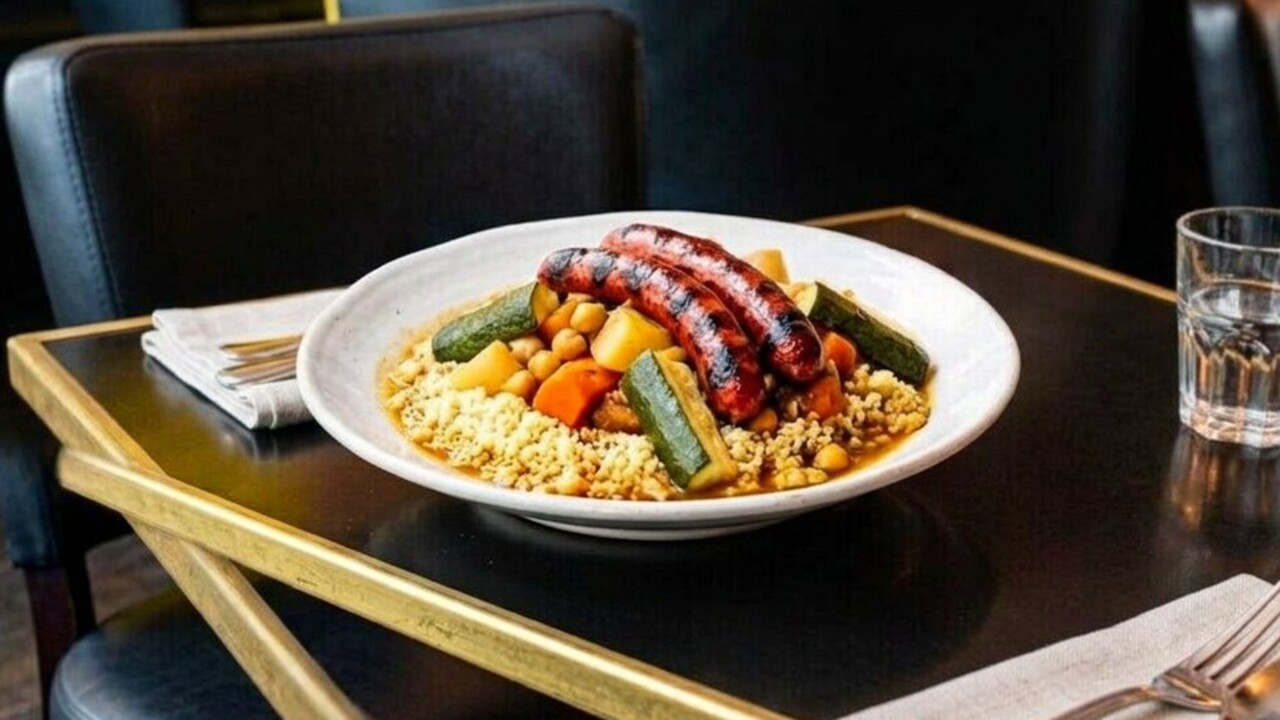
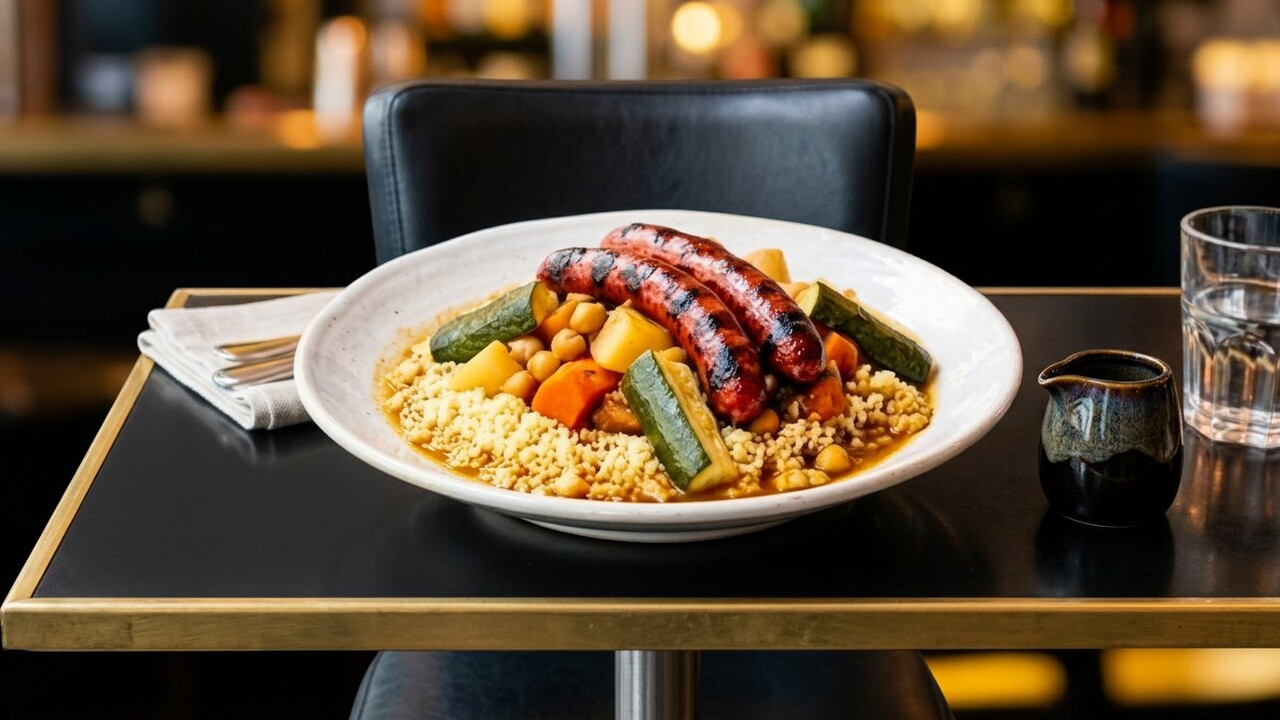
Couscous : supprimer les chevauchements de tables sur les six photos

diff --git a/index.html b/index.html
@@ -11354,7 +11354,7 @@ html:not(.carte-doc) .lightbox--food-wide .lightbox__img {
     </div>
     <div class="container">
       <section id="entrees" class="menu-section active"><div class="tab-flow"><article class="panel"><div class="panel__head"><h4 class="panel__title">Entrées</h4></div><div class="food-card-grid food-card-grid--wide"><article class="food-card menu-card-grid__item" data-photo="assets/plats/assiette-de-foie-gras-du-sud-ouest.jpg"><div class="food-card__head"><div class="food-card__lead"><h5>Assiette de foie gras du Sud-Ouest</h5><span class="food-card__note">Pain toasté, confiture d’abricots</span></div><strong>17,90</strong></div></article><article class="food-card menu-card-grid__item" data-photo="assets/plats/oeuf-dur-mayonnaise.jpg"><div class="food-card__head"><div class="food-card__lead"><h5>Œuf dur mayonnaise</h5></div><strong>6,20</strong></div></article><article class="food-card menu-card-grid__item" data-photo="assets/plats/6-escargots-au-roquefort.jpg"><div class="food-card__head"><div class="food-card__lead"><h5>6 Escargots au Roquefort</h5></div><strong>7,90</strong></div></article><article class="food-card menu-card-grid__item" data-photo="assets/plats/assiette-de-saumon-fume.jpg"><div class="food-card__head"><div class="food-card__lead"><h5>Assiette de saumon fumé</h5></div><strong>7,50</strong></div></article><article class="food-card menu-card-grid__item" data-photo="assets/plats/tartare-d-avocat-et-crevettes.jpg"><div class="food-card__head"><div class="food-card__lead"><h5>Tartare d’avocat et crevettes</h5></div><strong>7,90</strong></div></article><article class="food-card menu-card-grid__item" data-photo="assets/plats/oeuf-cocotte-du-moment.jpg"><div class="food-card__head"><div class="food-card__lead"><h5>Œuf cocotte du moment</h5></div><strong>7,90</strong></div></article></div></article><article class="panel"><div class="panel__head"><h4 class="panel__title">Planches &amp; croques</h4></div><div class="food-card-grid food-card-grid--wide"><article class="food-card menu-card-grid__item" data-photo="assets/plats/la-cochonnaille.jpg"><div class="food-card__head"><div class="food-card__lead"><h5>La Cochonnaille</h5></div><strong>17,50</strong></div></article><article class="food-card menu-card-grid__item" data-photo="assets/plats/la-fromagere.jpg"><div class="food-card__head"><div class="food-card__lead"><h5>La Fromagère</h5></div><strong>15,90</strong></div></article><article class="food-card menu-card-grid__item" data-photo="assets/plats/la-paysanne.jpg"><div class="food-card__head"><div class="food-card__lead"><h5>La Paysanne</h5><span class="food-card__note">Cochonnaille et fromagère</span></div><strong>19,90</strong></div></article><article class="food-card menu-card-grid__item" data-photo="assets/plats/croque-monsieur.jpg"><div class="food-card__head"><div class="food-card__lead"><h5>Croque-Monsieur</h5><span class="food-card__note">Sandwich grillé jambon-fromage, sauce béchamel</span><span class="food-card__note">Frites et salade</span></div><strong>11,70</strong></div></article><article class="food-card menu-card-grid__item" data-photo="assets/plats/croque-madame.jpg"><div class="food-card__head"><div class="food-card__lead"><h5>Croque-Madame</h5><span class="food-card__note">Sandwich grillé jambon-fromage, sauce béchamel, œuf au plat</span><span class="food-card__note">Frites et salade</span></div><strong>12,70</strong></div></article></div></article><article class="panel"><div class="panel__head"><h4 class="panel__title">Omelettes</h4></div><div class="food-card-grid food-card-grid--wide"><article class="food-card menu-card-grid__item" data-photo="assets/plats/oeufs-au-plat.jpg"><div class="food-card__head"><div class="food-card__lead"><h5>Œufs au plat</h5><span class="food-card__note">Salade</span></div><strong>9,90</strong></div></article><article class="food-card menu-card-grid__item" data-photo="assets/plats/omelette-nature.jpg"><div class="food-card__head"><div class="food-card__lead"><h5>Omelette nature</h5><span class="food-card__note">Salade</span></div><strong>9,90</strong></div></article><article class="food-card menu-card-grid__item" data-photo="assets/plats/omelette-au-fromage.jpg"><div class="food-card__head"><div class="food-card__lead"><h5>Omelette au fromage</h5><span class="food-card__note">Salade</span></div><strong>10,90</strong></div></article><article class="food-card menu-card-grid__item" data-photo="assets/plats/omelette-au-jambon.jpg"><div class="food-card__head"><div class="food-card__lead"><h5>Omelette au jambon</h5><span class="food-card__note">Salade</span></div><strong>10,90</strong></div></article><article class="food-card menu-card-grid__item" data-photo="assets/plats/omelette-mixte.jpg"><div class="food-card__head"><div class="food-card__lead"><h5>Omelette mixte</h5><span class="food-card__note">Salade</span></div><strong>13,90</strong></div></article><article class="food-card menu-card-grid__item" data-photo="assets/plats/omelette-aux-champignons.jpg"><div class="food-card__head"><div class="food-card__lead"><h5>Omelette aux champignons</h5><span class="food-card__note">Salade</span></div><strong>13,70</strong></div></article></div></article></div></section>
-<section id="plats" class="menu-section"><div class="tab-flow"><article class="panel"><div class="panel__head"><h4 class="panel__title">Plats</h4></div><div class="food-card-grid food-card-grid--wide"><article class="food-card menu-card-grid__item" data-photo="assets/plats/entrecote-190-g.jpg?v=20261024-originaux-restaures"><div class="food-card__head"><div class="food-card__lead"><h5>Entrecôte 190 g</h5><p class="food-card__note">Fleur de sel, sauce au choix</p></div><strong>19,90</strong></div></article><article class="food-card menu-card-grid__item" data-photo="assets/plats/bavette-d-aloyau.jpg?v=20261024-originaux-restaures"><div class="food-card__head"><div class="food-card__lead"><h5>Bavette d’aloyau</h5><p class="food-card__note">Sauce au choix</p></div><strong>17,50</strong></div></article><article class="food-card menu-card-grid__item" data-photo="assets/plats/escalope-de-veau.jpg?v=20261024-originaux-restaures"><div class="food-card__head"><div class="food-card__lead"><h5>Escalope de veau</h5><p class="food-card__note">Sauce champignons, pâtes</p></div><strong>19,90</strong></div></article><article class="food-card menu-card-grid__item" data-photo="assets/plats/cuisse-de-canard-confite.jpg?v=20261024-originaux-restaures"><div class="food-card__head"><div class="food-card__lead"><h5>Cuisse de canard confite</h5></div><strong>19,70</strong></div></article><article class="food-card menu-card-grid__item" data-photo="assets/plats/poisson.jpg?v=20261024-originaux-restaures"><div class="food-card__head"><div class="food-card__lead"><h5>Poisson</h5><p class="food-card__note">Selon l'arrivage</p></div><strong>17,90</strong></div></article><article class="food-card menu-card-grid__item" data-photo="assets/plats/tartare-de-boeuf.jpg?v=20261024-originaux-restaures"><div class="food-card__head"><div class="food-card__lead"><h5>Tartare de bœuf</h5></div><strong>17,80</strong></div></article><article class="food-card menu-card-grid__item" data-photo="assets/plats/cuisse-de-poulet-rotie.jpg?v=20261024-originaux-restaures"><div class="food-card__head"><div class="food-card__lead"><h5>Cuisse de poulet rôtie</h5><p class="food-card__note">Riz basmati</p></div><strong>15,20</strong></div></article></div></article><article class="panel"><div class="panel__head"><h4 class="panel__title">Burgers</h4></div><div class="food-card-grid"><article class="food-card menu-card-grid__item" data-photo="assets/plats/burger-la-colline.jpg?v=20261024-originaux-restaures"><div class="food-card__head"><div class="food-card__lead"><h5>Burger La Colline</h5><p class="food-card__note">Pain brioché, cheddar, steak haché, bacon, oignons caramélisés, salade, tomate, sauce burger.</p></div><strong>17,90</strong></div></article><article class="food-card menu-card-grid__item" data-photo="assets/plats/le-royal-fishburger.jpg?v=20261024-originaux-restaures"><div class="food-card__head"><div class="food-card__lead"><h5>Le Royal Fishburger</h5><p class="food-card__note">Pain brioché, cheddar, poisson pané, légumes grillés, salade, tomate, sauce burger.</p></div><strong>17,70</strong></div></article><article class="food-card menu-card-grid__item" data-photo="assets/plats/burger-chicken-croustillant.jpg?v=20261024-originaux-restaures"><div class="food-card__head"><div class="food-card__lead"><h5>Burger Chicken Croustillant</h5><p class="food-card__note">Pain brioché, cheddar, escalope de poulet pané croustillant, oignons caramélisés, salade, tomate, sauce burger.</p></div><strong>17,90</strong></div></article><article class="food-card menu-card-grid__item" data-photo="assets/plats/burger-vegetarien.jpg?v=20261024-originaux-restaures"><div class="food-card__head"><div class="food-card__lead"><h5>Burger Végétarien</h5><p class="food-card__note">Pain brioché, cheddar, steak végétarien, légumes grillés, salade, tomate, sauce burger.</p></div><strong>17,70</strong></div></article></div></article><article class="panel"><div class="panel__head"><h4 class="panel__title">Salades</h4></div><div class="food-card-grid"><article class="food-card menu-card-grid__item" data-photo="assets/plats/la-colline.jpg?v=20261024-originaux-restaures"><div class="food-card__head"><div class="food-card__lead"><h5>La Colline</h5><p class="food-card__note">Salade verte, tomate, escalope de poulet pané, œuf mimosa, croûton, toast de chèvre.</p></div><strong>16,90</strong></div></article><article class="food-card menu-card-grid__item" data-photo="assets/plats/chevre-chaud.jpg?v=20261024-originaux-restaures"><div class="food-card__head"><div class="food-card__lead"><h5>Chèvre Chaud</h5><p class="food-card__note">Salade verte, tomate, jambon sec, toast de cabécou, noix, miel.</p></div><strong>16,50</strong></div></article><article class="food-card menu-card-grid__item" data-photo="assets/plats/vegetarienne.jpg?v=20261024-originaux-restaures"><div class="food-card__head"><div class="food-card__lead"><h5>Végétarienne</h5><p class="food-card__note">Salade verte, tomate, concombre, haricots verts, légumes grillés, avocat.</p></div><strong>12,60</strong></div></article><article class="food-card menu-card-grid__item" data-photo="assets/plats/nordique.jpg?v=20261024-originaux-restaures"><div class="food-card__head"><div class="food-card__lead"><h5>Nordique</h5><p class="food-card__note">Salade verte, saumon fumé, crevettes, avocat, concombre, tomate, feta, croûtons.</p></div><strong>17,20</strong></div></article></div></article><article class="panel"><div class="panel__head"><h4 class="panel__title">Pâtes</h4></div><div class="food-card-grid"><article class="food-card menu-card-grid__item" data-photo="assets/plats/tagliatelles-a-la-carbonara.jpg?v=20261024-originaux-restaures"><div class="food-card__head"><div class="food-card__lead"><h5>Tagliatelles à la carbonara</h5></div><strong>15,90</strong></div></article><article class="food-card menu-card-grid__item" data-photo="assets/plats/tagliatelles-au-saumon.jpg?v=20261024-saumon-morceaux"><div class="food-card__head"><div class="food-card__lead"><h5>Tagliatelles au saumon</h5></div><strong>16,20</strong></div></article><article class="food-card menu-card-grid__item" data-photo="assets/plats/penne-au-poulet-et-champignons.jpg?v=20261024-originaux-restaures"><div class="food-card__head"><div class="food-card__lead"><h5>Penne au poulet et champignons</h5></div><strong>16,50</strong></div></article></div></article><article class="panel panel--couscous"><div class="panel__head"><h4 class="panel__title">Couscous</h4><p class="panel__subtitle">À déguster chaque vendredi et samedi (midi et soir).</p></div><div class="food-card-grid"><article class="food-card menu-card-grid__item" data-photo="assets/plats/couscous-poulet.jpg?v=20261024-couscous-table-compacte"><div class="food-card__head"><div class="food-card__lead"><h5>Poulet</h5><p class="food-card__note">Semoule fine, légumes mijotés et bouillon maison.</p></div><strong>15,60</strong></div></article><article class="food-card menu-card-grid__item" data-photo="assets/plats/couscous-merguez.jpg?v=20261024-couscous-table-compacte"><div class="food-card__head"><div class="food-card__lead"><h5>Merguez</h5><p class="food-card__note">Semoule fine, légumes mijotés et bouillon maison.</p></div><strong>15,60</strong></div></article><article class="food-card menu-card-grid__item" data-photo="assets/plats/couscous-agneau.jpg?v=20261024-couscous-table-compacte"><div class="food-card__head"><div class="food-card__lead"><h5>Brochette d’agneau</h5><p class="food-card__note">Semoule fine, légumes mijotés et bouillon maison.</p></div><strong>16,50</strong></div></article><article class="food-card menu-card-grid__item" data-photo="assets/plats/couscous-boeuf.jpg?v=20261024-couscous-table-compacte"><div class="food-card__head"><div class="food-card__lead"><h5>Bœuf</h5><p class="food-card__note">Semoule fine, légumes mijotés et bouillon maison.</p></div><strong>16,50</strong></div></article><article class="food-card menu-card-grid__item" data-photo="assets/plats/couscous-vegetarien.jpg?v=20261024-couscous-table-compacte"><div class="food-card__head"><div class="food-card__lead"><h5>Végétarien</h5><p class="food-card__note">Semoule fine, légumes mijotés et bouillon maison.</p></div><strong>13,50</strong></div></article><article class="food-card menu-card-grid__item" data-photo="assets/plats/couscous-trois-viandes.jpg?v=20261024-couscous-table-compacte"><div class="food-card__head"><div class="food-card__lead"><h5>La Colline Royale</h5><p class="food-card__note">Poulet, agneau et bœuf. Semoule fine, légumes mijotés et bouillon maison.</p></div><strong>22,90</strong></div></article></div></article><article class="panel panel--accent"><div class="accent-band"><img class="accent-band__motif" src="assets/menus/motif-80a.png" alt="" aria-hidden="true" loading="lazy" width="80" height="80"><div class="accent-band__title"><strong>Assiette de frites</strong><span>4,90</span></div><p>Accompagnement : frites, haricots verts, pâtes</p><p class="accent-band__sauce">Sauce au choix : poivre · champignons · roquefort — supplément sauce 2,00</p></div></article></div></section>
+<section id="plats" class="menu-section"><div class="tab-flow"><article class="panel"><div class="panel__head"><h4 class="panel__title">Plats</h4></div><div class="food-card-grid food-card-grid--wide"><article class="food-card menu-card-grid__item" data-photo="assets/plats/entrecote-190-g.jpg?v=20261024-originaux-restaures"><div class="food-card__head"><div class="food-card__lead"><h5>Entrecôte 190 g</h5><p class="food-card__note">Fleur de sel, sauce au choix</p></div><strong>19,90</strong></div></article><article class="food-card menu-card-grid__item" data-photo="assets/plats/bavette-d-aloyau.jpg?v=20261024-originaux-restaures"><div class="food-card__head"><div class="food-card__lead"><h5>Bavette d’aloyau</h5><p class="food-card__note">Sauce au choix</p></div><strong>17,50</strong></div></article><article class="food-card menu-card-grid__item" data-photo="assets/plats/escalope-de-veau.jpg?v=20261024-originaux-restaures"><div class="food-card__head"><div class="food-card__lead"><h5>Escalope de veau</h5><p class="food-card__note">Sauce champignons, pâtes</p></div><strong>19,90</strong></div></article><article class="food-card menu-card-grid__item" data-photo="assets/plats/cuisse-de-canard-confite.jpg?v=20261024-originaux-restaures"><div class="food-card__head"><div class="food-card__lead"><h5>Cuisse de canard confite</h5></div><strong>19,70</strong></div></article><article class="food-card menu-card-grid__item" data-photo="assets/plats/poisson.jpg?v=20261024-originaux-restaures"><div class="food-card__head"><div class="food-card__lead"><h5>Poisson</h5><p class="food-card__note">Selon l'arrivage</p></div><strong>17,90</strong></div></article><article class="food-card menu-card-grid__item" data-photo="assets/plats/tartare-de-boeuf.jpg?v=20261024-originaux-restaures"><div class="food-card__head"><div class="food-card__lead"><h5>Tartare de bœuf</h5></div><strong>17,80</strong></div></article><article class="food-card menu-card-grid__item" data-photo="assets/plats/cuisse-de-poulet-rotie.jpg?v=20261024-originaux-restaures"><div class="food-card__head"><div class="food-card__lead"><h5>Cuisse de poulet rôtie</h5><p class="food-card__note">Riz basmati</p></div><strong>15,20</strong></div></article></div></article><article class="panel"><div class="panel__head"><h4 class="panel__title">Burgers</h4></div><div class="food-card-grid"><article class="food-card menu-card-grid__item" data-photo="assets/plats/burger-la-colline.jpg?v=20261024-originaux-restaures"><div class="food-card__head"><div class="food-card__lead"><h5>Burger La Colline</h5><p class="food-card__note">Pain brioché, cheddar, steak haché, bacon, oignons caramélisés, salade, tomate, sauce burger.</p></div><strong>17,90</strong></div></article><article class="food-card menu-card-grid__item" data-photo="assets/plats/le-royal-fishburger.jpg?v=20261024-originaux-restaures"><div class="food-card__head"><div class="food-card__lead"><h5>Le Royal Fishburger</h5><p class="food-card__note">Pain brioché, cheddar, poisson pané, légumes grillés, salade, tomate, sauce burger.</p></div><strong>17,70</strong></div></article><article class="food-card menu-card-grid__item" data-photo="assets/plats/burger-chicken-croustillant.jpg?v=20261024-originaux-restaures"><div class="food-card__head"><div class="food-card__lead"><h5>Burger Chicken Croustillant</h5><p class="food-card__note">Pain brioché, cheddar, escalope de poulet pané croustillant, oignons caramélisés, salade, tomate, sauce burger.</p></div><strong>17,90</strong></div></article><article class="food-card menu-card-grid__item" data-photo="assets/plats/burger-vegetarien.jpg?v=20261024-originaux-restaures"><div class="food-card__head"><div class="food-card__lead"><h5>Burger Végétarien</h5><p class="food-card__note">Pain brioché, cheddar, steak végétarien, légumes grillés, salade, tomate, sauce burger.</p></div><strong>17,70</strong></div></article></div></article><article class="panel"><div class="panel__head"><h4 class="panel__title">Salades</h4></div><div class="food-card-grid"><article class="food-card menu-card-grid__item" data-photo="assets/plats/la-colline.jpg?v=20261024-originaux-restaures"><div class="food-card__head"><div class="food-card__lead"><h5>La Colline</h5><p class="food-card__note">Salade verte, tomate, escalope de poulet pané, œuf mimosa, croûton, toast de chèvre.</p></div><strong>16,90</strong></div></article><article class="food-card menu-card-grid__item" data-photo="assets/plats/chevre-chaud.jpg?v=20261024-originaux-restaures"><div class="food-card__head"><div class="food-card__lead"><h5>Chèvre Chaud</h5><p class="food-card__note">Salade verte, tomate, jambon sec, toast de cabécou, noix, miel.</p></div><strong>16,50</strong></div></article><article class="food-card menu-card-grid__item" data-photo="assets/plats/vegetarienne.jpg?v=20261024-originaux-restaures"><div class="food-card__head"><div class="food-card__lead"><h5>Végétarienne</h5><p class="food-card__note">Salade verte, tomate, concombre, haricots verts, légumes grillés, avocat.</p></div><strong>12,60</strong></div></article><article class="food-card menu-card-grid__item" data-photo="assets/plats/nordique.jpg?v=20261024-originaux-restaures"><div class="food-card__head"><div class="food-card__lead"><h5>Nordique</h5><p class="food-card__note">Salade verte, saumon fumé, crevettes, avocat, concombre, tomate, feta, croûtons.</p></div><strong>17,20</strong></div></article></div></article><article class="panel"><div class="panel__head"><h4 class="panel__title">Pâtes</h4></div><div class="food-card-grid"><article class="food-card menu-card-grid__item" data-photo="assets/plats/tagliatelles-a-la-carbonara.jpg?v=20261024-originaux-restaures"><div class="food-card__head"><div class="food-card__lead"><h5>Tagliatelles à la carbonara</h5></div><strong>15,90</strong></div></article><article class="food-card menu-card-grid__item" data-photo="assets/plats/tagliatelles-au-saumon.jpg?v=20261024-saumon-morceaux"><div class="food-card__head"><div class="food-card__lead"><h5>Tagliatelles au saumon</h5></div><strong>16,20</strong></div></article><article class="food-card menu-card-grid__item" data-photo="assets/plats/penne-au-poulet-et-champignons.jpg?v=20261024-originaux-restaures"><div class="food-card__head"><div class="food-card__lead"><h5>Penne au poulet et champignons</h5></div><strong>16,50</strong></div></article></div></article><article class="panel panel--couscous"><div class="panel__head"><h4 class="panel__title">Couscous</h4><p class="panel__subtitle">À déguster chaque vendredi et samedi (midi et soir).</p></div><div class="food-card-grid"><article class="food-card menu-card-grid__item" data-photo="assets/plats/couscous-poulet.jpg?v=20261024-sans-chevauchement"><div class="food-card__head"><div class="food-card__lead"><h5>Poulet</h5><p class="food-card__note">Semoule fine, légumes mijotés et bouillon maison.</p></div><strong>15,60</strong></div></article><article class="food-card menu-card-grid__item" data-photo="assets/plats/couscous-merguez.jpg?v=20261024-sans-chevauchement"><div class="food-card__head"><div class="food-card__lead"><h5>Merguez</h5><p class="food-card__note">Semoule fine, légumes mijotés et bouillon maison.</p></div><strong>15,60</strong></div></article><article class="food-card menu-card-grid__item" data-photo="assets/plats/couscous-agneau.jpg?v=20261024-sans-chevauchement"><div class="food-card__head"><div class="food-card__lead"><h5>Brochette d’agneau</h5><p class="food-card__note">Semoule fine, légumes mijotés et bouillon maison.</p></div><strong>16,50</strong></div></article><article class="food-card menu-card-grid__item" data-photo="assets/plats/couscous-boeuf.jpg?v=20261024-sans-chevauchement"><div class="food-card__head"><div class="food-card__lead"><h5>Bœuf</h5><p class="food-card__note">Semoule fine, légumes mijotés et bouillon maison.</p></div><strong>16,50</strong></div></article><article class="food-card menu-card-grid__item" data-photo="assets/plats/couscous-vegetarien.jpg?v=20261024-sans-chevauchement"><div class="food-card__head"><div class="food-card__lead"><h5>Végétarien</h5><p class="food-card__note">Semoule fine, légumes mijotés et bouillon maison.</p></div><strong>13,50</strong></div></article><article class="food-card menu-card-grid__item" data-photo="assets/plats/couscous-trois-viandes.jpg?v=20261024-sans-chevauchement"><div class="food-card__head"><div class="food-card__lead"><h5>La Colline Royale</h5><p class="food-card__note">Poulet, agneau et bœuf. Semoule fine, légumes mijotés et bouillon maison.</p></div><strong>22,90</strong></div></article></div></article><article class="panel panel--accent"><div class="accent-band"><img class="accent-band__motif" src="assets/menus/motif-80a.png" alt="" aria-hidden="true" loading="lazy" width="80" height="80"><div class="accent-band__title"><strong>Assiette de frites</strong><span>4,90</span></div><p>Accompagnement : frites, haricots verts, pâtes</p><p class="accent-band__sauce">Sauce au choix : poivre · champignons · roquefort — supplément sauce 2,00</p></div></article></div></section>
 <section id="menus" class="menu-section"><div class="tab-flow"><article class="panel"><div class="panel__head"><h4 class="panel__title">Formules</h4></div>
 <div class="fm" data-ref="Formules.pdf">
   <!-- ============ Formule « duo » : entrée + plat, ou plat + dessert ============ -->

diff --git a/tools/PHOTO_STYLE.md b/tools/PHOTO_STYLE.md
@@ -1,5 +1,14 @@
 # Ton photographique du site
 
+### Correction géométrique des couscous : aucun chevauchement de tables
+Une SEULE petite table carrée noire à bord doré pour deux, une assiette
+en gros plan. Supprimer tous les plateaux voisins, bords parasites et
+surfaces qui traversent la table principale. La chaise opposée doit rester
+clairement derrière le plateau, sans le traverser. Fond chaleureux en bokeh,
+courgettes en morceaux et six recettes conservées. Contrôle visuel des six
+photos avant publication ; aucune autre photo à modifier.
+
+
 ### Précision du propriétaire : petite table pour DEUX + gros plan couscous
 Il ne suffit pas de recadrer une grande table : les6photos de couscous ont
 été retravaillées pour un petit plateau carré de bistrot (cible60×60cm),
